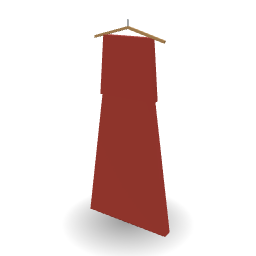
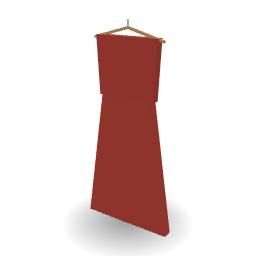
Food batch 2: fix final review findings (dress shoulders, scarf stripes, zip, tags)

Changed region(s): [[0.5938, 0.125, 0.6562, 0.375], [0.375, 0.125, 0.4062, 0.3438]]

diff --git a/art/scripts/contents.py b/art/scripts/contents.py
@@ -494,14 +494,14 @@ def jacket_hanger():
     p.box("fabric_brown", (0, 0, 0.35), (0.5, 0.07, 0.7), taper=0.9)
     for s in (-1, 1):
         p.box("fabric_brown", (s * 0.31, 0, 0.45), (0.12, 0.07, 0.5), rot=(0, -s * 6, 0))
-    p.box("black", (0, -0.0345, 0.35), (0.012, 0.004, 0.5))                           # the zip, on the front
+    p.box("black", (0, -0.0345, 0.35), (0.012, 0.006, 0.5))                           # the zip, on the front
     return p
 
 
 @item("clothes", "Dress_Hanger")
 def dress_hanger():
     p = Prop("FD_Dress_Hanger_01"); _hanger(p, 1.0)
-    p.box("cloth_red", (0, 0, 0.85), (0.32, 0.04, 0.3), taper=0.85)                     # the bodice, from the waist (0.7) to the shoulders
+    p.box("cloth_red", (0, 0, 0.85), (0.32, 0.04, 0.3), taper=1.1)                     # the bodice, from the waist (0.7) to the shoulders
     p.box("cloth_red", (0, 0, 0.35), (0.5, 0.05, 0.7), taper=0.6)                       # the skirt: narrow at the waist, wide at the hem
     return p
 
@@ -532,7 +532,7 @@ def shoes_pair():
 
 @item("clothes", "Scarf")
 def scarf():
-    p = Prop("FD_Scarf_01"); p.box("cloth_red", (0, 0, 0.01), (0.7, 0.14, 0.02)); p.box("paint_yellow", (0.12, 0, 0.0205), (0.04, 0.14, 0.002)); p.box("paint_yellow", (-0.12, 0, 0.0205), (0.04, 0.14, 0.002)); return p
+    p = Prop("FD_Scarf_01"); p.box("cloth_red", (0, 0, 0.01), (0.7, 0.14, 0.02)); p.box("paint_yellow", (0.12, 0, 0.0205), (0.04, 0.138, 0.002)); p.box("paint_yellow", (-0.12, 0, 0.0205), (0.04, 0.138, 0.002)); return p
 
 
 ROTTEN = {"banana_yellow": "fabric_brown", "corn_green": "mould", "lettuce_heart": "dead_wood", "grass": "mould",

diff --git a/tools/catalog.py b/tools/catalog.py
@@ -426,8 +426,8 @@ _a("FD_SugarBag_01", "Sugar bag", "food/boxed/sugar", "bag sugar baking new")
 _a("FD_ChipsBag_01", "Bag of chips", "food/boxed/chips", "bag chips snack new")
 _a("FD_CandyBar_01", "Candy bar", "food/boxed/candy-bar", "candy bar sweet snack new")
 _a("FD_DogBone_01", "Dog bone", "food/pet/dog-bone", "pet dog treat bone new")
-_a("FD_CatFoodTin_01", "Cat food tin", "food/pet/cat-food", "pet cat food tin new")
-_a("FD_HayFlake_01", "Hay flake", "farm/feed/hay", "farm hay feed rural new")
+_a("FD_CatFoodTin_01", "Cat food tin", "food/pet/cat-food", "pet cat tin new")
+_a("FD_HayFlake_01", "Hay flake", "farm/feed/hay", "hay feed rural new")
 _a("FD_SeedBag_01", "Seed bag", "food/pet/seed", "pet bird seed bag new")
 _a("FD_Shirt_Hanger_01", "Shirt on a hanger", "clothing/garments/shirt", "clothes shirt hanger new")
 _a("FD_Jacket_Hanger_01", "Jacket on a hanger", "clothing/garments/jacket", "clothes jacket hanger new")

diff --git a/NOTES.md b/NOTES.md
@@ -213,3 +213,4 @@ Tracking issue: #79. 32 models from the existing `contents.py` (groups `food_dri
 **Part names** are in `art/data/part_names.json` (secondary parts; `$main` for the five single-colour models: water bottle, dog bone, shirt, jacket, dress) and in the soda can's PAINTS `parts`. They came from `contents.py` for what each swatch colours (can body and lid, caps, labels; the bottle labels are lathes 1.5 mm outside the clear glass, which is not paintable, so the label is the Main colour); the pasta box's "Window" is a `glass` swatch (an opaque pane, not the clear glass material).
 **Built and looked at:** all 32 built in Blender 5.2.3, rows made with `make_manifest.build_entry` for these ids, thumbnails viewed in one sheet. **Not done:** `audit.py` (the food audit), opening each model in the site viewer, the clothes' fit on the people. The `Hamburger` in `contents.py` was already in. Left for later batches of #79: props and farm, the building kit, vehicles, animals, ground.
 Opus first review: 15 findings, fixed in a second commit: the three garments on hangers were rebuilt (the hanger is symmetric and rests on the shoulders, the sleeves hang down, the dress is narrow at the waist and wide at the hem, the zip sits on the jacket), the pants and towel stacks no longer float or leave gaps, the scarf is 0.7 x 0.14 m and rests on the floor, the shoe laces touch the shoes, the hay band no longer goes below the floor, the candy bar's wrapper is inset (no coplanar sides), "Folded pants" and "Folded towel" are now "Stack of folded pants" and "Stack of folded towels" and the pants lost their `denim` tag, the hay flake moved from `food/pet` to `farm/feed/hay` (livestock feed, not pet food), the can lids are all called "Lid". **Known faults of the game's models that ship unchanged** (listed in `docs/from-game/art/food-notes.md`): the jam hovers inside its jar, the dog bone's knobs clip 6 mm into the bar, the ketchup and mustard caps and the whiskey and wine stoppers clip, the wine bottle is 0.347 m (about 15% over a 750 ml bottle). Not changed: the pasta lies in front of its window pane (the pane is an opaque swatch, so the pasta has to be in front of it).
+Fable final review: no blocking findings, 4 low ones, fixed in a fourth commit: the dress's bodice is wider at the shoulders (`taper` 1.1) so the 0.4 m hanger rests on it (it overhung the narrower bodice), the scarf stripes are inset 1 mm (no coplanar sides), the jacket zip is 6 mm deep (stays in contact with the tapered front), and two tag clean-ups (the hay flake lost `farm`, the cat food tin lost `food`). The stripes and the zip were not re-viewed in the browser; the dress, jacket and scarf thumbnails were regenerated.
